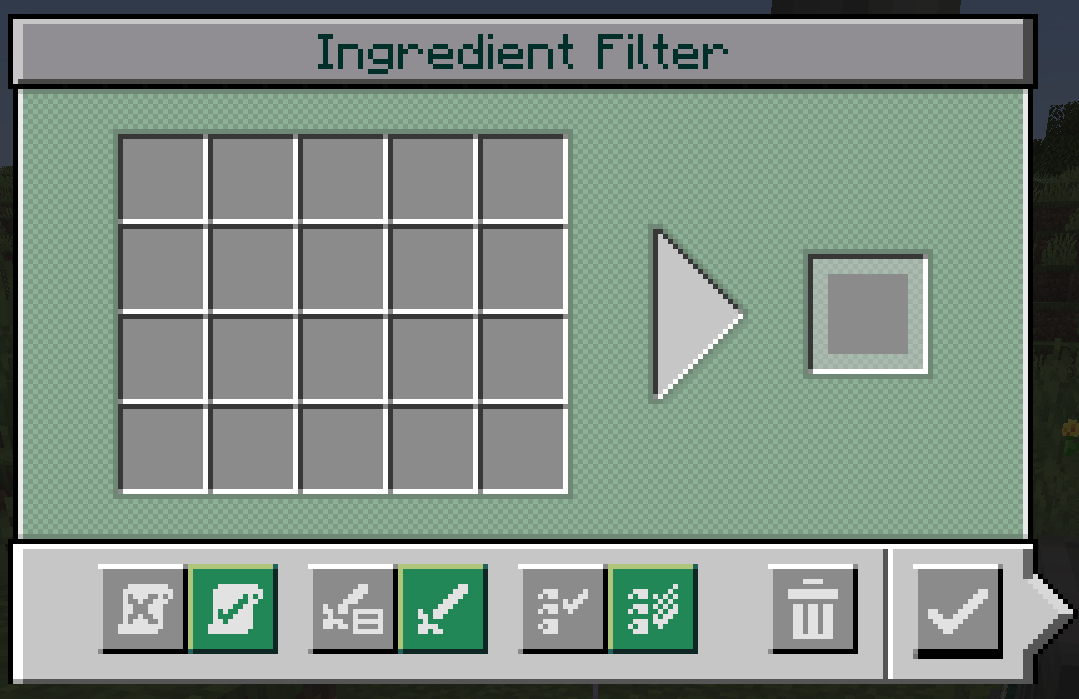
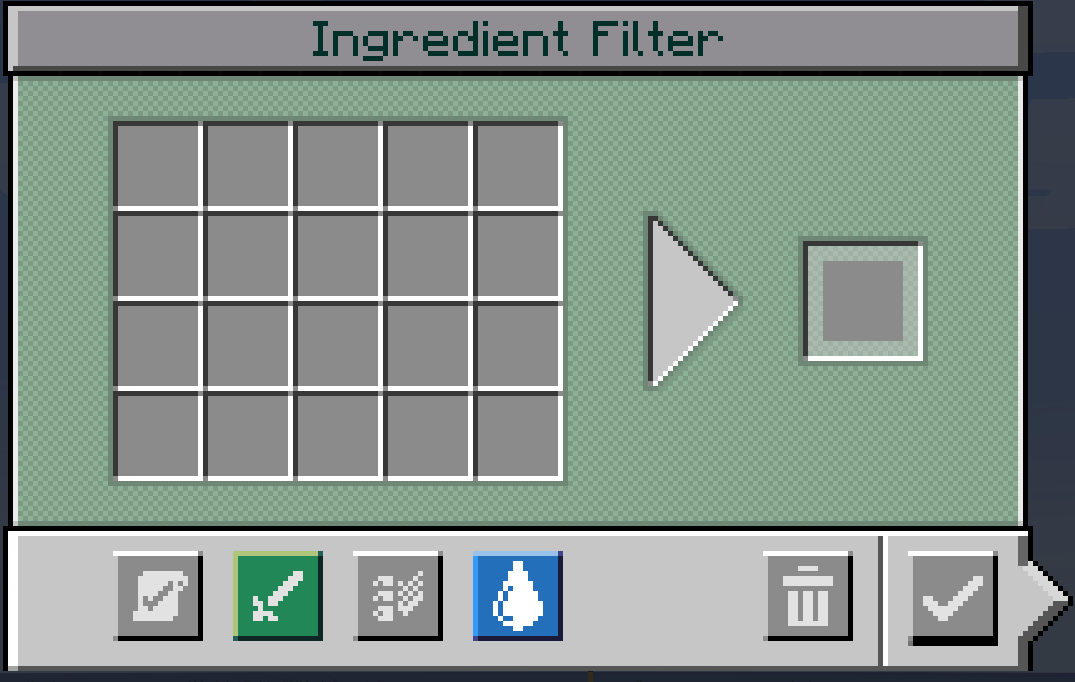
update images and readme for 1.1.0

diff --git a/README.md b/README.md
@@ -11,12 +11,12 @@ Good intentions, I like it a lot, prevents having to rebuild parts of the factor
 
 However, Create seems to not have had that in mind when designing basin processing.
 
-## The solution: New filter type!
+## The solution: New filter type! <img alt="alt: filter item" src="https://raw.githubusercontent.com/rk-exxec/createIF/refs/heads/master/images/icon.png" width="64" style="vertical-align:bottom"> 
 
-<img alt="alt: empty filter ui" src="https://raw.githubusercontent.com/rk-exxec/createIF/refs/heads/master/images/blank_filter.png" width="400">  <img alt="alt: filter item" src="https://raw.githubusercontent.com/rk-exxec/createIF/refs/heads/master/images/icon.png" width="400"> 
+<img alt="alt: empty filter ui" src="https://raw.githubusercontent.com/rk-exxec/createIF/refs/heads/master/images/blank_filter.png" width="400"> 
 
 Allows you to specify items that need to be in a basin before it may start on the left.  
-You can also use buckets/fluids to require that specific liquids are present.  
+You can also use buckets/fluids to require that specific liquids are present.  From version 1.1.0 onward, you can even use fluids directly without containers, this behavior can be toggled with the 4th button. Containers can be emptied into the slots via right click to get the fluid.  
 Optionally you can specify the target recipe in the slot on the right.
 
 **Supports adding recipes via \[+\] Button in EMI or JEI!**
@@ -34,7 +34,7 @@ However, with my filter, you can stop the basin if that happens.
 <img alt="alt: filter with full recipe" src="https://raw.githubusercontent.com/rk-exxec/createIF/refs/heads/master/images/filter_with_recipe.png" width="400">  <img alt="alt: filter with only 4th item and match any config" src="https://raw.githubusercontent.com/rk-exxec/createIF/refs/heads/master/images/filter_with_recipe_any.png" width="400"> 
 
 Both of the above prevent processing until the 4th ingredient is available.  
-Note the rightmost pair of buttons:
+Note the 3rd button:
 
 *   MatchAny allows processing if any of the ingredients specified in the filter is available.
 *   MatchAll waits until ALL are available.
@@ -48,4 +48,12 @@ which produces following interactions:
 *   MatchAll: Checks any ONE item in the nested filter is available. Like:  
     `OuterFilter[Item1 AND Item2 AND InnerFilter(Item3 OR Item4)]`
 
+Attribute filters can be nested to allow entire tags, like every wood log etc.
+
+
 NOTE: You cannot nest Ingredient filters!
+
+## JEI / EMI:
+
+*   supports adding recipe ingredients via \[+\] button in JEI / EMI
+*   holding shift while adding will add all possible ingredient variants (like all wood types allowed)
